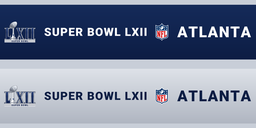
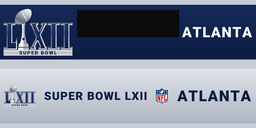
sb1: host dressing keeps the dark digit boxes of the Halo and the Allegiant board
Claude-Session: https://claude.ai/code/session_016kyWKkvEU8EqFYc4tc1Qj9

Changed region(s): [[0.0, 0.0625, 1.0, 0.4375]]

diff --git a/tools/nfl2k5_super_bowl_marks_art.py b/tools/nfl2k5_super_bowl_marks_art.py
@@ -702,6 +702,9 @@ HOST_SURFACES = {
                                   "exitbanner": (128, 128, "plate")}),
 }
 HOST_SCALE = 4
+#: dark screen boxes the host models keep (the game's digits are drawn over them: the Halo's graphics panels and the
+#: Allegiant board); measured on the finished host bundles, kept near-black here
+KEEP_DARK = {("h42", "LIGHT_mb_halo"): [(77, 10, 179, 37)], ("h43", "LIGHT_ag_board_panel"): [(8, 18, 120, 64)]}
 
 
 def _shield_img():
@@ -783,7 +786,15 @@ def host_surface(code, material, event, city, mark, shield):
         out = _band(W, H, event, city, mark, shield)
     elif layout == "halo":
         out = rgba((W, H))
-        out.alpha_composite(_band(W, H // 2, event, city, mark, shield), (0, 0))
+        top = gradient((W, H // 2), [(0, (22, 44, 92)), (1, NAVY_SB)])
+        trim = max(2, H // 28)
+        top.alpha_composite(solid(poly((W, H // 2), [(0, 0), (W, 0), (W, trim), (0, trim)]), (200, 206, 216)))
+        top.alpha_composite(solid(poly((W, H // 2), [(0, H // 2 - trim), (W, H // 2 - trim), (W, H // 2),
+                                                     (0, H // 2)]), (200, 206, 216)))
+        # the digits' dark box sits in the middle (KEEP_DARK): the mark on its left, the city on its right
+        wa.paste_c(top, wa.fit(mark, 70 * S, H * 0.40), 38 * S, H * 0.25)
+        wa.paste_c(top, wa.fit(_type(city, WHITE), 70 * S, H * 0.16), 217 * S, H * 0.25)
+        out.alpha_composite(top, (0, 0))
         out.alpha_composite(_band(W, H // 2, event, city, mark, shield, light=True), (0, H // 2))
     elif layout == "bands":
         out = rgba((W, H))
@@ -796,10 +807,11 @@ def host_surface(code, material, event, city, mark, shield):
         wa.paste_c(out, wa.fit(t, W * 0.66, H * 0.78), W / 2, H * 0.58)
     elif layout == "board":
         out = gradient((W, H), [(0, (30, 32, 38)), (1, (10, 10, 14))])
-        panel = gradient((W, int(H * 0.42)), [(0, (226, 230, 236)), (1, (160, 166, 178))])
-        out.alpha_composite(panel, (0, int(H * 0.58)))
-        wa.paste_c(out, wa.fit(mark, W * 0.80, H * 0.48), W / 2, H * 0.30)
-        wa.paste_c(out, wa.fit(_type("SUPER BOWL " + event, NAVY_SB), W * 0.84, H * 0.20), W / 2, H * 0.79)
+        panel = gradient((W, int(H * 0.46)), [(0, (226, 230, 236)), (1, (160, 166, 178))])
+        out.alpha_composite(panel, (0, int(H * 0.54)))
+        wa.paste_c(out, wa.fit(mark, W * 0.36, H * 0.38), W * 0.22, H * 0.77)
+        wa.paste_c(out, wa.fit(_type("SUPER BOWL", NAVY_SB), W * 0.56, H * 0.14), W * 0.68, H * 0.70)
+        wa.paste_c(out, wa.fit(_type(event, NAVY_SB), W * 0.56, H * 0.18), W * 0.68, H * 0.86)
     elif layout == "plate":
         out = gradient((W, H), [(0, (22, 44, 92)), (1, NAVY_SB)])
         wa.paste_c(out, wa.fit(mark, W * 0.84, H * 0.56), W / 2, H * 0.38)
@@ -807,6 +819,9 @@ def host_surface(code, material, event, city, mark, shield):
         wa.paste_c(out, wa.fit(_type(city, (200, 206, 216)), W * 0.70, H * 0.11), W / 2, H * 0.90)
     else:
         raise ValueError(layout)
+    for x0, y0, x1, y1 in KEEP_DARK.get((code, material), ()):
+        out.alpha_composite(solid(poly((W, H), [(x0 * S, y0 * S), (x1 * S, y0 * S), (x1 * S, y1 * S),
+                                                (x0 * S, y1 * S)]), (12, 12, 14)))
     out = out.resize((w, h), Image.LANCZOS)
     if layout != "banner":
         a = np.asarray(out).copy()

diff --git a/packaging/check_2k5_mod_studio_release.py b/packaging/check_2k5_mod_studio_release.py
@@ -332,7 +332,7 @@ ANNIVERSARY_FIELD_PNG_CATALOG_SHA256 = "c621d94c4f48f26ab6c44e912dd5d5ff7a36d070
 # reviewed as authored art: no photograph or photo crop and no retail-extracted pixels. It grants no general PNG
 # exception inside those folders; tools/b77/modern_art_png_catalog.py regenerates it and prints the digest below.
 MODERN_ART_PNG_CATALOG = "packaging/nfl2k5_modern_art_pngs.json"
[2 lines of base64/hex data omitted]
 
 
 def _scorebug_template_pngs(root: Path) -> dict:
